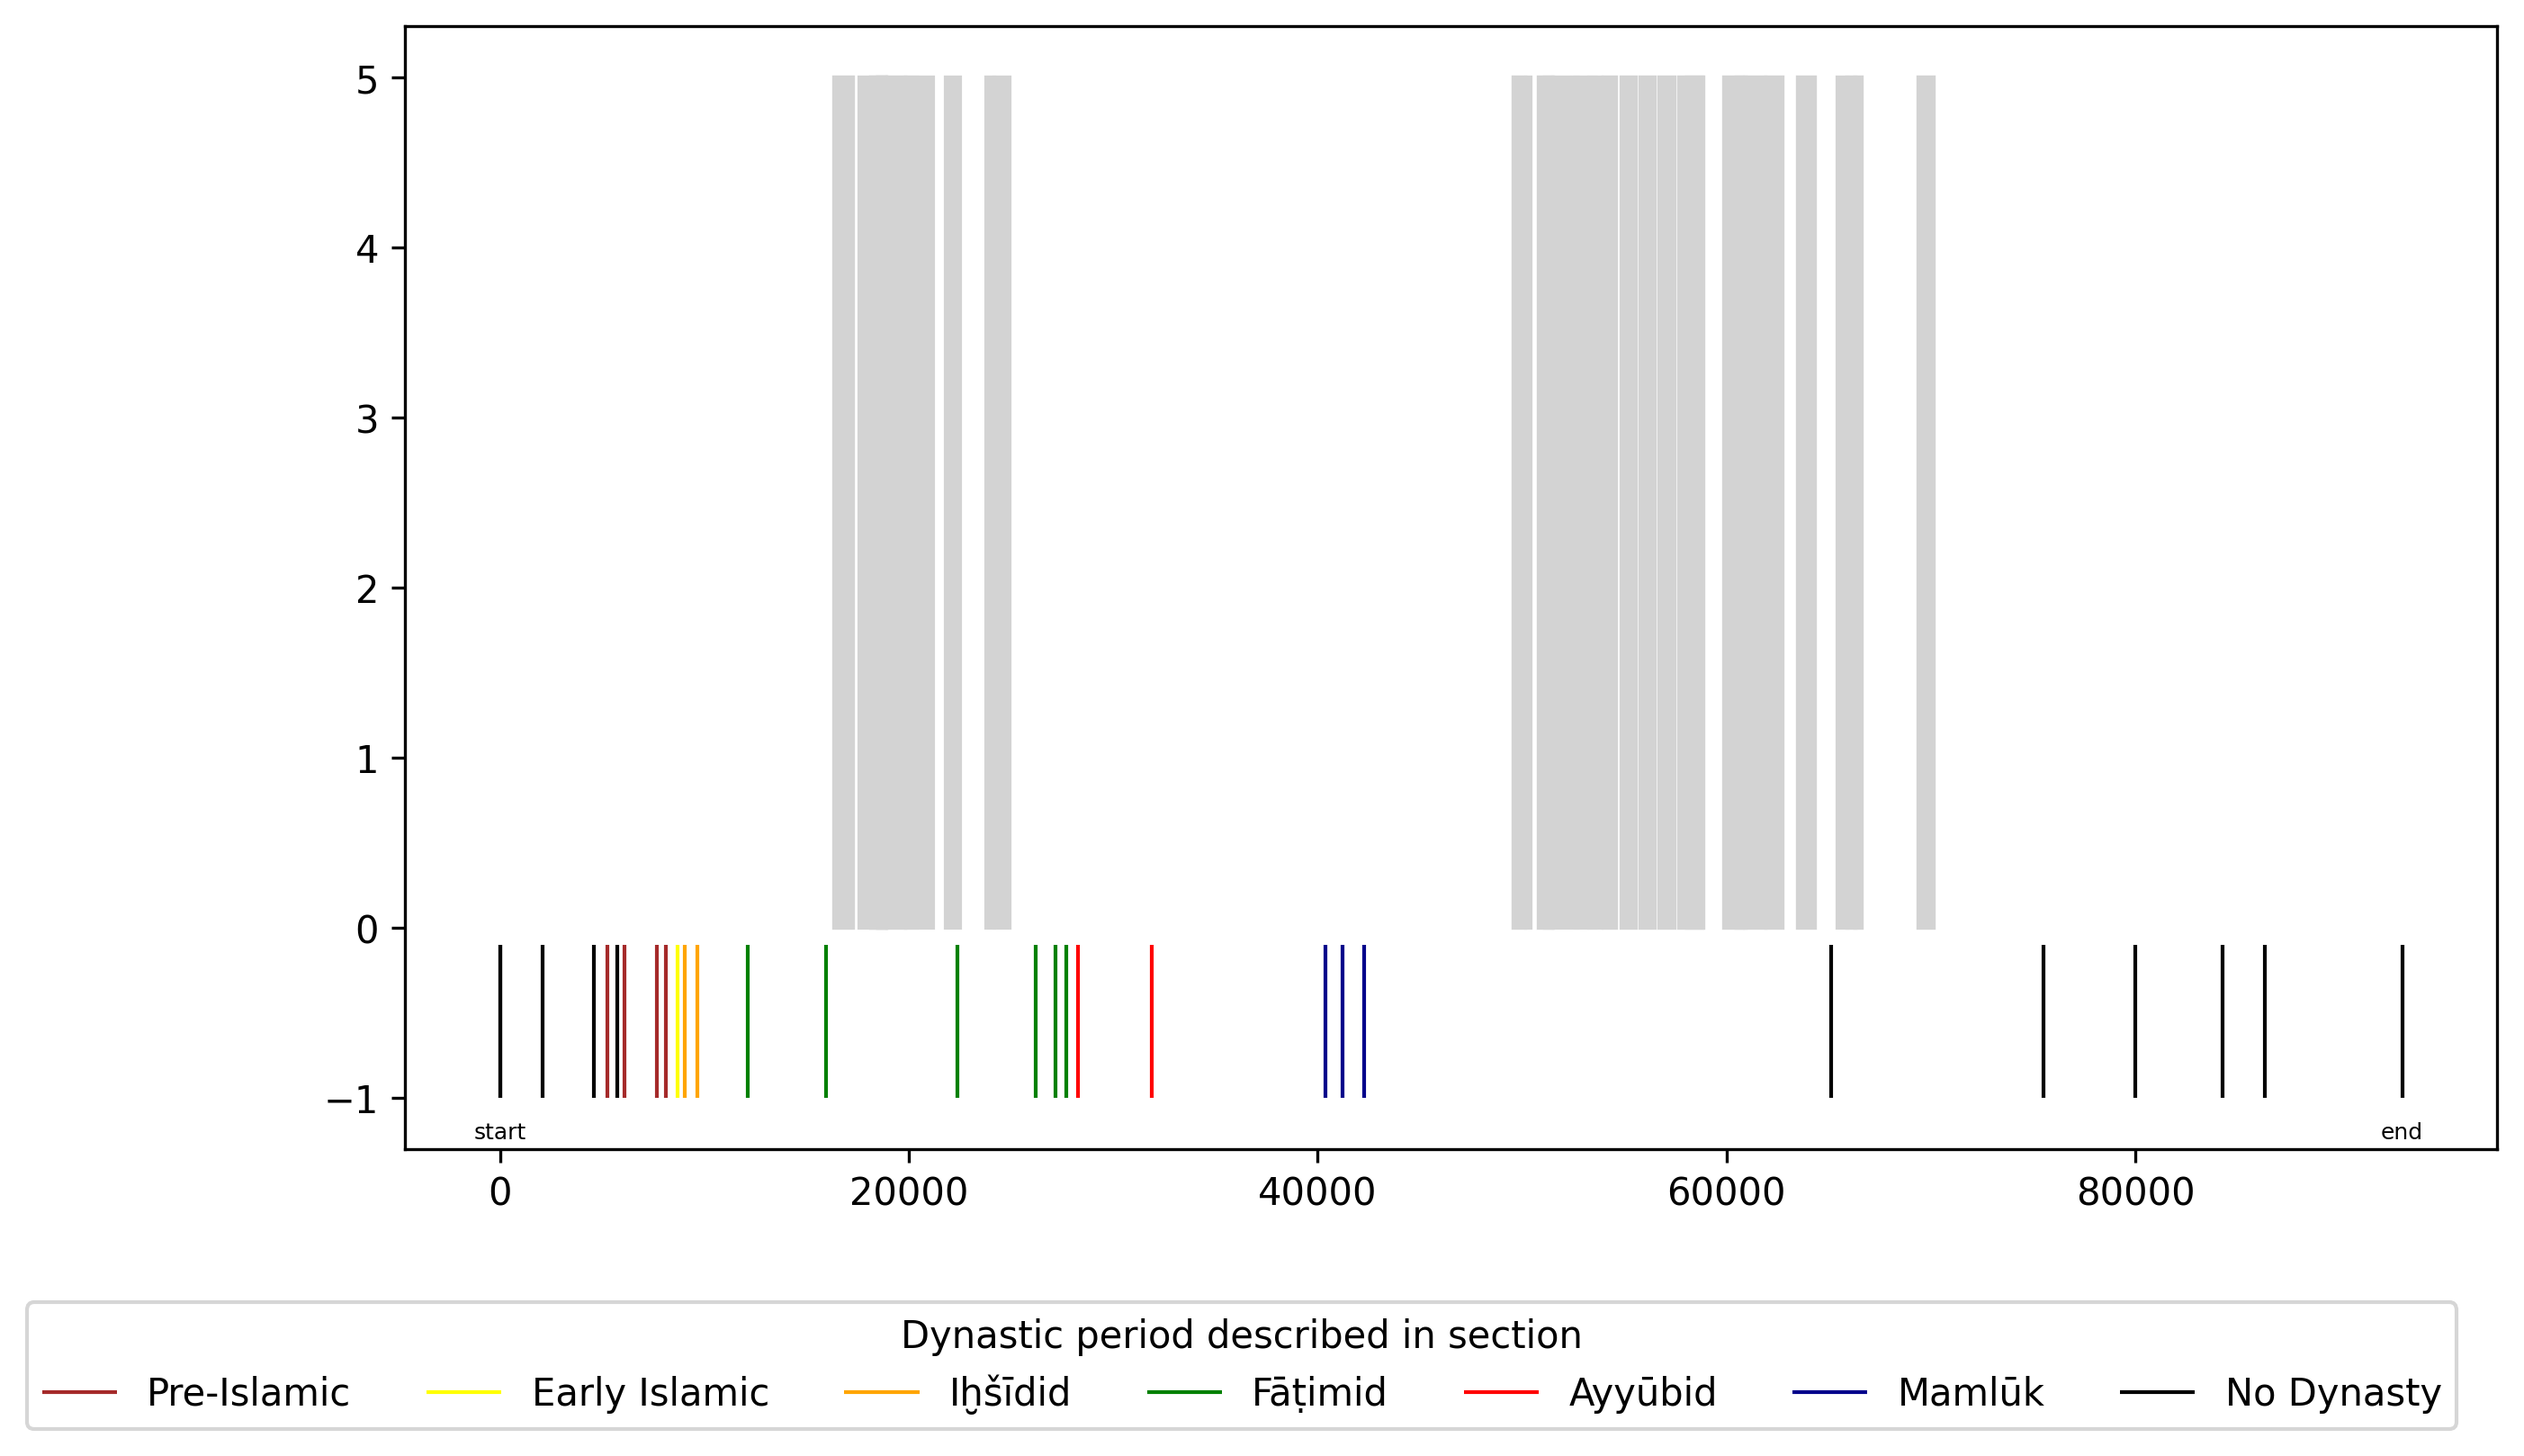
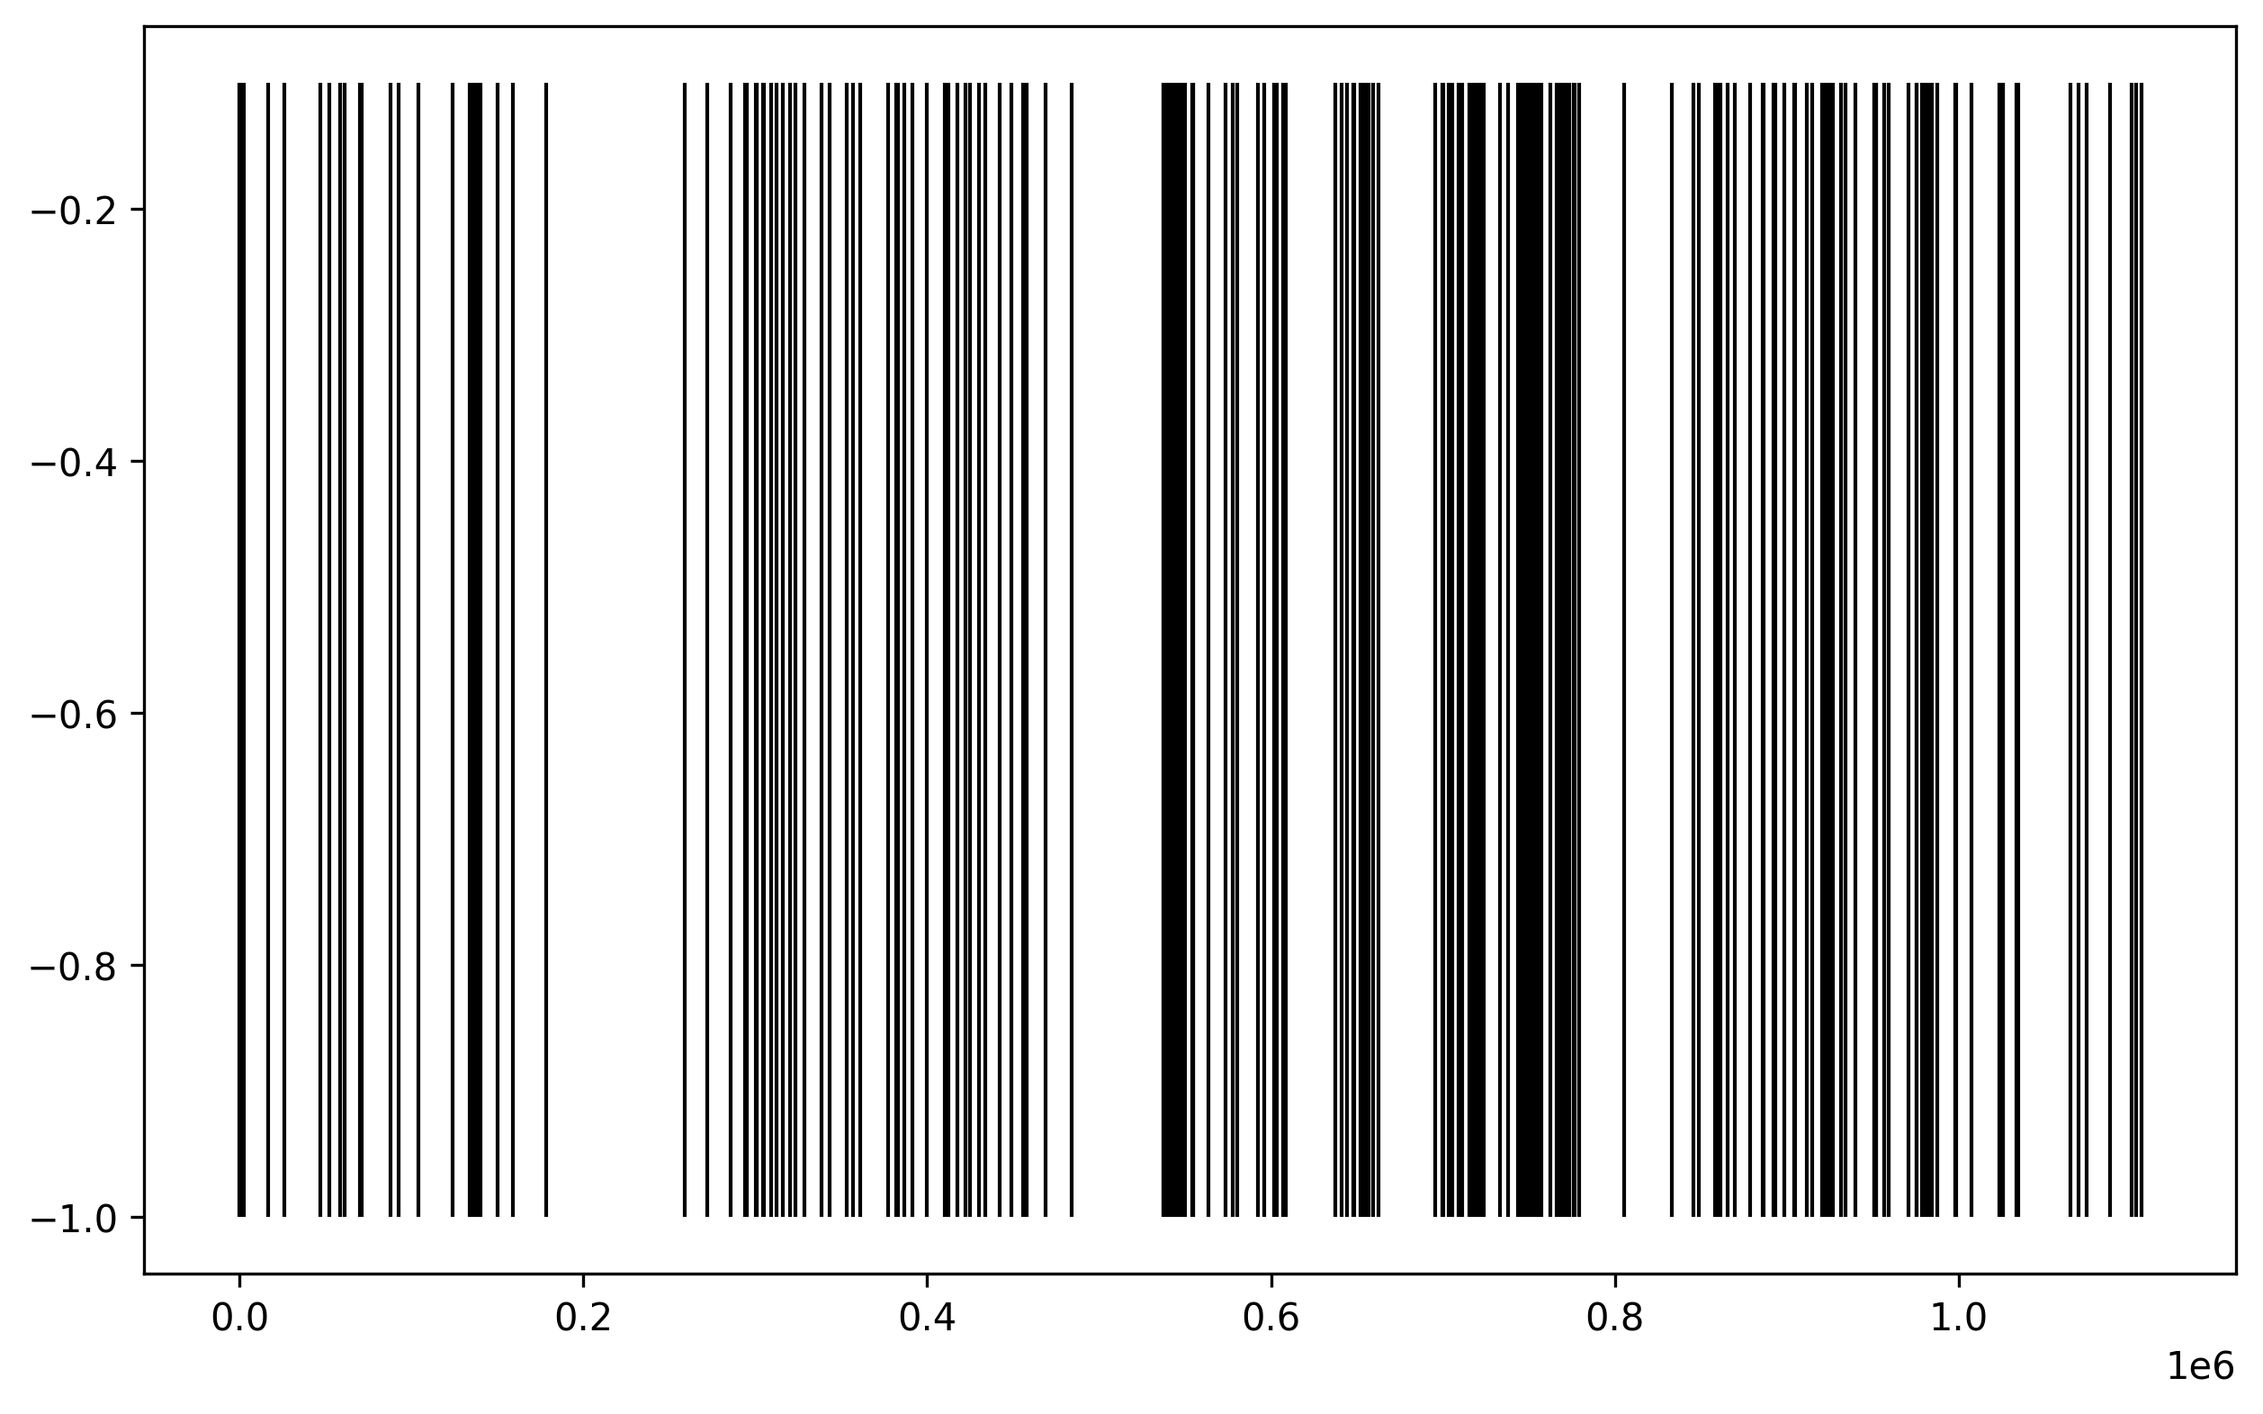
added new function to reuse mapping graph - frequencies

diff --git a/map_clusters_to_text/scripts/graph/graph_reuse.py b/map_clusters_to_text/scripts/graph/graph_reuse.py
@@ -10,8 +10,9 @@ import matplotlib.pyplot as plt
 from matplotlib import patches
 import pandas as pd
 
-def plot_reuse(reuse_map, out, maintext, section_map = None, top_colours = None, annotation = None, label_conv = None, add_dates=False, overlap_patch = True):
-    
+def plot_reuse(reuse_map, out, maintext, section_map = None, top_colours = None, annotation = None, label_conv = None, add_dates=False, overlap_patch = True, 
+        b2_focus_graph = None, concat_width = 500):
+    """b2_focus_graph supplies a URI for the main b2 and concatenates the remaining books into bars with reuse frequency, according to the concat_width"""
     reuse_df = pd.read_csv(reuse_map, encoding="utf")
     
     if label_conv is not None:
@@ -63,24 +64,90 @@ def plot_reuse(reuse_map, out, maintext, section_map = None, top_colours = None,
         data_dict = reuse_df.to_dict("records")
     else:
         data_dict = reuse_df[reuse_df["Text"] == "Other"].to_dict("records")
-    for reuse_instance in data_dict:
-        sec_width = (reuse_instance["ch_end_tar"] - reuse_instance["ch_start_tar"])
-        patch = patches.Rectangle(xy = (reuse_instance["ch_start_tar"], 0), width = sec_width, height = 1 * len(text_list), color = "lightgrey")
-        axs.add_patch(patch)
+    
+    if not b2_focus_graph:
+        for reuse_instance in data_dict:
+            sec_width = (reuse_instance["ch_end_tar"] - reuse_instance["ch_start_tar"])
+            patch = patches.Rectangle(xy = (reuse_instance["ch_start_tar"], 0), width = sec_width, height = 1 * len(text_list), color = "lightgrey")
+            axs.add_patch(patch)
 
     plt.savefig("test1.png", dpi=300, bbox_inches = "tight")
 
-    for idx, text in enumerate(text_list):
-        data_dict = reuse_df[reuse_df["Text"] == text].to_dict("records")
-        y_value_list.append(idx + 0.5)
-        for reuse_instance in data_dict:
-            sec_width = (reuse_instance["ch_end_tar"] - reuse_instance["ch_start_tar"])
-            patch = patches.Rectangle(xy = (reuse_instance["ch_start_tar"], idx), width = sec_width, height = 0.9, color = "black")
+    if b2_focus_graph:
+        non_b2_lengths = []
+        reuse_dict_list = reuse_df.sort_values(by=["ch_start_tar"]).to_dict("records")
+        last_end_pos = 0
+        y_value_list.append(0.5)
+        for idx, reuse_instance in enumerate(reuse_dict_list):
+            if reuse_instance["Text"] == b2_focus_graph:
+                
+                sec_width = (reuse_instance["ch_end_tar"] - reuse_instance["ch_start_tar"])
+                patch = patches.Rectangle(xy = (reuse_instance["ch_start_tar"], 0), width = sec_width, height = 0.9, color = "black")      
+                axs.add_patch(patch)
+                
+                # This plus else only needed for more detailed bars between b2 instances
+                last_end_pos = reuse_instance["ch_end_tar"]
+            else:
+                for reuse_instance in reuse_dict_list[idx+1:]:
+                    if reuse_instance["Text"] == b2_focus_graph:
+                        gap_end = reuse_instance["ch_start_tar"]
+                non_b2_lengths.append({
+                    "start": last_end_pos,
+                    "end": gap_end
+                })
+        
+        book_length = reuse_df["ch_end_tar"].max()
+        
+        slice_count = int(book_length/concat_width)
+        max_text_count = 0
+        
+        for start in range(0, book_length, concat_width,):
+            end = start + concat_width + 1
+            
+            filtered_df = reuse_df[reuse_df["ch_start_tar"] >= start]
+            filtered_df = filtered_df[filtered_df["ch_start_tar"] < end]
+            text_count = len(filtered_df["Text"].drop_duplicates())
+            if text_count > max_text_count:
+                max_text_count = text_count
+            patch = patches.Rectangle(xy = (start, 1), width = concat_width, height = text_count, color = "black")      
             axs.add_patch(patch)
+        
+        count_labels = []
+        for i in range(1, max_text_count):
+            y_value_list.append(i)
+            count_labels.append(str(i - 1))
+
+        # # Loop through non_b2_lengths and concatenate slices
+        ### This code perhaps over-detailed - focussing on only drawing graphs in the gap
+        # for non_b2_length in non_b2_lengths:
+        #     length = non_b2_length["end"] - non_b2_length["start"]
+        #     slice_count = length/concat_width
+        #     for start in range(non_b2_length["start"], slice_count, concat_width):
+        #         end = start + concat_width
+        #         filtered_df = reuse_df[reuse_df["ch_start_tar"] => start]
+        #         filtered_df = filtered_df[filtered_df["ch_end_tar"] < end]
+        #         text_count = len(filtered_df["Text"].drop_duplicates())
+        #         patch = patches.Rectangle(xy = (start, 1), width = concat_width, height = text_count, color = "black")      
+        #         axs.add_patch(patch)
+                
+
+
+
+    else:
+        for idx, text in enumerate(text_list):
+            data_dict = reuse_df[reuse_df["Text"] == text].to_dict("records")
+            y_value_list.append(idx + 0.5)
+            for reuse_instance in data_dict:
+                sec_width = (reuse_instance["ch_end_tar"] - reuse_instance["ch_start_tar"])
+                patch = patches.Rectangle(xy = (reuse_instance["ch_start_tar"], idx), width = sec_width, height = 0.9, color = "black")
+                axs.add_patch(patch)
     
     plt.savefig("test2.png", dpi=300, bbox_inches = "tight")
     
-    if section_map is not None:
+    if b2_focus_graph and section_map is not None:
+        label_list = ["Section Boundary", b2_focus_graph] + count_labels
+        
+    elif section_map is not None:
         label_list = ["Section Boundary"] + text_list
     else:
         label_list = text_list[:]
@@ -91,6 +158,7 @@ def plot_reuse(reuse_map, out, maintext, section_map = None, top_colours = None,
             plt.annotate(annot["text"], (annot["x"], annot["y"]))
     
     
+   
     plt.yticks(y_value_list, label_list)
 
     if add_dates:
@@ -103,32 +171,32 @@ def plot_reuse(reuse_map, out, maintext, section_map = None, top_colours = None,
 
     plt.xlabel("Number of characters into the " + maintext)
     
-    plt.savefig(out, dpi=300, bbox_inches = "tight")
+    fig.savefig(out, dpi=300, bbox_inches = "tight")
     
     plt.show
 
 if __name__ == "__main__":
 
-    reuse_map = "C:/Users/mathe/Documents/Github-repos/clusters-analysis/map_clusters_to_text/data_out_igatha_corrected/reuse_maps/0845Maqrizi.IghathaUmma.Kraken210223142017-ara1.cl-tagged-reuse.csv"
-    section_map = "C:/Users/mathe/Documents/Github-repos/clusters-analysis/map_clusters_to_text/data_out_igatha_corrected/reuse_maps/0845Maqrizi.IghathaUmma.Kraken210223142017-ara1.cl-tagged-section.csv"
-    graph_dir = "C:/Users/mathe/Documents/Github-repos/clusters-analysis/map_clusters_to_text/data_out_igatha_corrected/graphs/Iǧāṯat al-Umma-reuse-graph.jpeg"
+    reuse_map = "C:/Users/mathe/Documents/Github-repos/clusters-analysis/map_clusters_to_text/data_out/reuse_maps/0845Maqrizi.ItticazHunafa.cl-tagged-reuse.csv"
+    section_map = "C:/Users/mathe/Documents/Github-repos/clusters-analysis/map_clusters_to_text/data_out/reuse_maps/0845Maqrizi.ItticazHunafa.cl-tagged-section.csv"
+    graph_dir = "C:/Users/mathe/Documents/Github-repos/clusters-analysis/map_clusters_to_text/test_freq_bar.jpeg"
 
-    topics = [{"id": "@PREIS@", "colour": "brown", "label" : "Pre-Islamic"},
-          {"id": "@EARIS@", "colour": "yellow", "label" : "Early Islamic"},
-          {"id": "@IKH@", "colour": "orange", "label" : "Iḫšīdid"},
-          {"id": "@FAT@", "colour": "green", "label" : "Fāṭimid"},
-          {"id": "@AYY@", "colour": "red", "label" : "Ayyūbid"},
-          {"id": "@MAM@", "colour": "darkblue", "label" : "Mamlūk"},
-          {"id": "None", "colour": "black", "label" : "No Dynasty"}
-          ]
+    # topics = [{"id": "@PREIS@", "colour": "brown", "label" : "Pre-Islamic"},
+    #       {"id": "@EARIS@", "colour": "yellow", "label" : "Early Islamic"},
+    #       {"id": "@IKH@", "colour": "orange", "label" : "Iḫšīdid"},
+    #       {"id": "@FAT@", "colour": "green", "label" : "Fāṭimid"},
+    #       {"id": "@AYY@", "colour": "red", "label" : "Ayyūbid"},
+    #       {"id": "@MAM@", "colour": "darkblue", "label" : "Mamlūk"},
+    #       {"id": "None", "colour": "black", "label" : "No Dynasty"}
+    #       ]
 
 
 
-    labels ={"0845Maqrizi.ItticazHunafa": "Ittiʿāẓ al-Ḥunafāʾ",
-         "0845Maqrizi.Mawaciz": "Ḫiṭaṭ",
-         "0845Maqrizi.Rasail": "Rasāʾil",
-         "0845Maqrizi.ShudhurCuqud": "Šuḏūr al-ʿUqūd",
-         "0845Maqrizi.NuqudQadima" : "al-Nuqūd al-Qadīma",
-         "0845Maqrizi.Muqaffa": "al-Muqaffā al-Kabīr"}
+    # labels ={"0845Maqrizi.ItticazHunafa": "Ittiʿāẓ al-Ḥunafāʾ",
+    #      "0845Maqrizi.Mawaciz": "Ḫiṭaṭ",
+    #      "0845Maqrizi.Rasail": "Rasāʾil",
+    #      "0845Maqrizi.ShudhurCuqud": "Šuḏūr al-ʿUqūd",
+    #      "0845Maqrizi.NuqudQadima" : "al-Nuqūd al-Qadīma",
+    #      "0845Maqrizi.Muqaffa": "al-Muqaffā al-Kabīr"}
 
-    plot_reuse(reuse_map, graph_dir, maintext='Iǧāṯat al-Umma', section_map=section_map, top_colours = topics, label_conv=labels )
+    plot_reuse(reuse_map, graph_dir, maintext='Ittiaz', add_dates = True, section_map=section_map, b2_focus_graph="0677IbnMuyassar.AkhbarMisr" )
